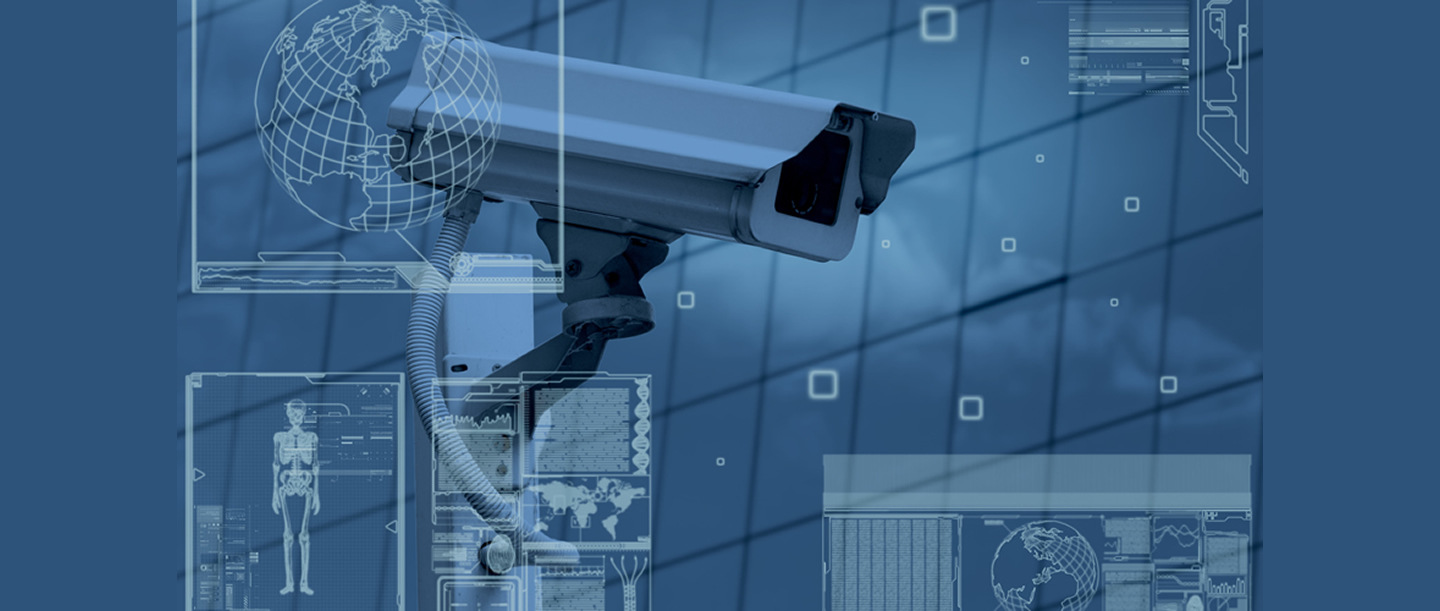
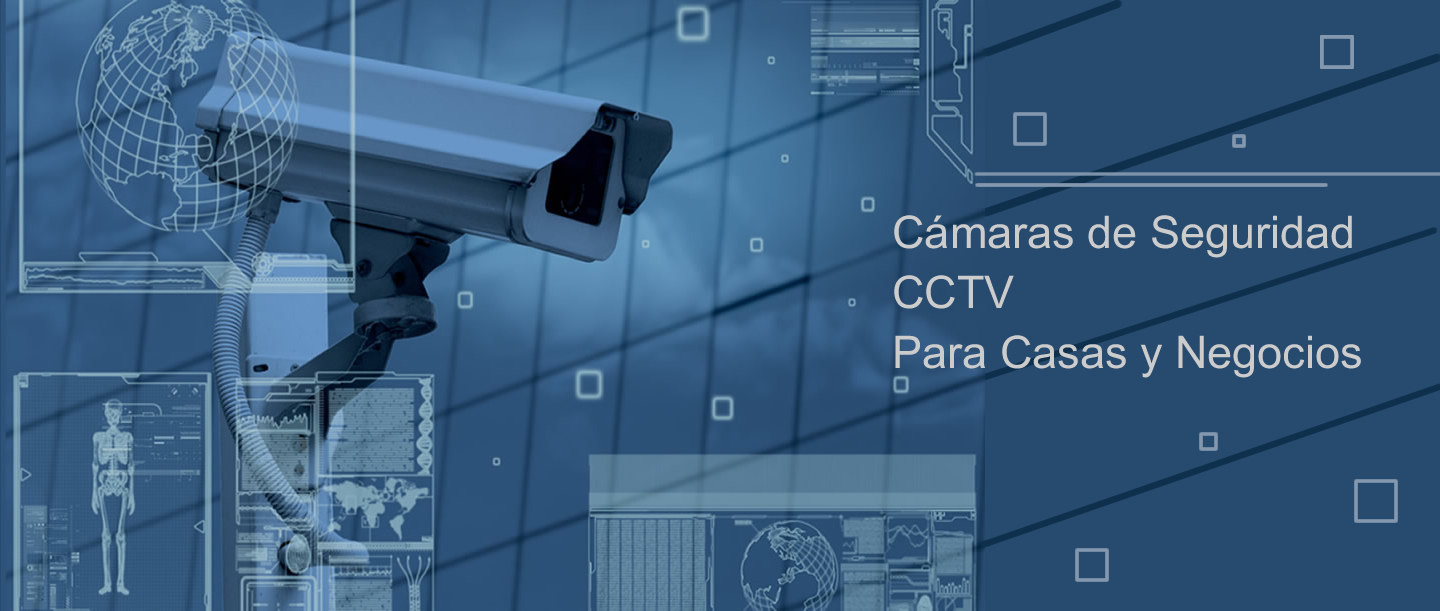
Cambios texto presentación

diff --git a/index.html b/index.html
@@ -46,13 +46,15 @@
 
     <div class="container">
       <br>
-      <h2 class="texto-azul-destacado">MULTECIN - Ingeniería Integral para todo el Ecuador</h2>
+      <h2 class="texto-azul-destacado">Ingeniería Integral para todo el Ecuador</h2>
       <p class="texto-normal">Soluciones confiables en climatización, seguridad y energía. Tecnología de vanguardia,
         instalación profesional y soporte técnico garantizado.</p>
       <section id="servicios">
-        <h2 class="texto-azul-destacado">Servicios</h2>
+        <!-- 
+          <h2 class="texto-azul-destacado">Servicios</h2>
+        -->
         <article>
-          <p class="texto-destacado">🌬 HVAC&R – Climatización eficiente y confiable</p>
+          <p class="texto-destacado">🌬 HVAC&R - Climatización eficiente y confiable</p>
           <ul class="no-bullets">
             <li class="texto-normal">Calefacción, Aire Acondicionado, Refrigeración y Ventilación</li>
             <li class="texto-normal">Diseño e instalación con enfoque en eficiencia energética y confort ambiental</li>
@@ -61,7 +63,7 @@
         </article>
         <br>
         <article>
-          <p class="texto-destacado">🔐 Seguridad – Protección inteligente</p>
+          <p class="texto-destacado">🔐 Seguridad - Protección inteligente</p>
           <ul class="no-bullets">
             <li class="texto-normal">Cámaras CCTV, Cercos eléctricos, Control de accesos, Parqueaderos</li>
             <li class="texto-normal">Sistemas contra Incendios con respaldo técnico y cumplimiento normativo</li>
@@ -70,7 +72,7 @@
         </article>
         <br>
         <article>
-          <p class="texto-destacado">⚡ Energía – Automatización y respaldo continuo</p>
+          <p class="texto-destacado">⚡ Energía - Automatización y respaldo continuo</p>
           <ul class="no-bullets">
             <li class="texto-normal">UPS y gabinetes de control automático para generadores</li>
             <li class="texto-normal">Soluciones para continuidad operativa y gestión energética</li>
